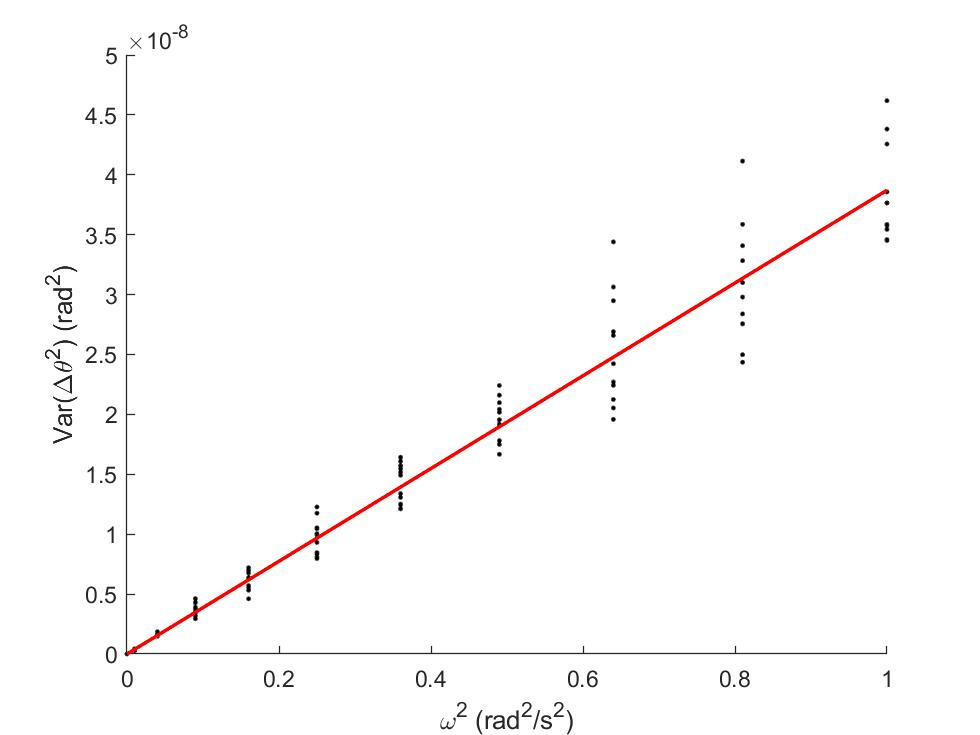
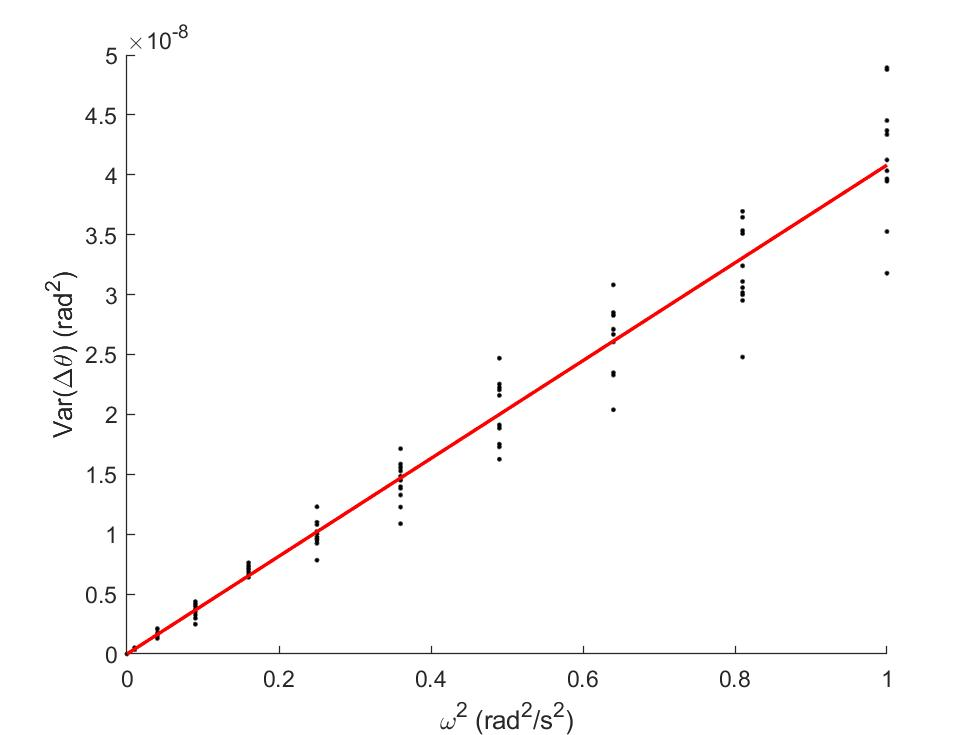
Cosas mías

diff --git a/02_Matlab/sensor_us.m b/02_Matlab/sensor_us.m
@@ -73,6 +73,11 @@ classdef sensor_us < sensor
             x_rel = obj.X_rel(1);
             y_rel = obj.X_rel(2);
             theta_rel = obj.X_rel(3);
+
+            theta = theta_abs - theta_rel;
+            dx_dtheta = -x_rel*sin(theta) - y_rel*cos(theta);
+            dy_dtheta = x_rel*cos(theta) - y_rel*sin(theta);
+
             
             delta = obj.angulo_cono;
             
@@ -92,12 +97,12 @@ classdef sensor_us < sensor
                         X_m = new_X_m;
                         
                         % Jacobiano
-                        dx = 0;
-                        dy = -1/sin(theta_abs + delta);
-                        dtheta = 1/sin(theta_abs + delta)^2*(-x_rel*sin(theta_rel + delta) + ...
+                        dz_dx = 0;
+                        dz_dy = -1/sin(theta_abs + delta);
+                        dz_dtheta = 1/sin(theta_abs + delta)^2*(-x_rel*sin(theta_rel + delta) + ...
                             y_rel*cos(theta_rel + delta) + (y_abs - X_m(2))*cos(theta_abs + delta));
                         
-                        H = [dx dy dtheta];
+                        H = [dz_dx dz_dy dz_dtheta];
                     end
                     
                     % ángulo extremo del cono 2
@@ -107,12 +112,12 @@ classdef sensor_us < sensor
                         X_m = new_X_m;
                         
                         % Jacobiano
-                        dx = 0;
-                        dy = -1/sin(theta_abs - delta);
-                        dtheta = 1/sin(theta_abs - delta)^2*(-x_rel*sin(theta_rel - delta) + ...
+                        dz_dx = 0;
+                        dz_dy = -1/sin(theta_abs - delta);
+                        dz_dtheta = 1/sin(theta_abs - delta)^2*(-x_rel*sin(theta_rel - delta) + ...
                             y_rel*cos(theta_rel - delta) + (y_abs - X_m(2))*cos(theta_abs - delta));
                         
-                        H = [dx dy dtheta];
+                        H = [dz_dx dz_dy dz_dtheta];
                     end
                     
                     % perpendicular 1
@@ -123,10 +128,10 @@ classdef sensor_us < sensor
                             X_m = new_X_m;
                             
                             % Jacobiano
-                            dx = 0;
-                            dy = -1;
-                            dtheta = -(x_rel*sin(theta_abs) + y_rel*cos(theta_abs));
-                            H = [dx dy dtheta];
+                            dz_dx = 0;
+                            dz_dy = -1;
+                            dz_dtheta = -(x_rel*sin(theta_abs) + y_rel*cos(theta_abs));
+                            H = [dz_dx dz_dy dz_dtheta];
                         end
                     end
                     
@@ -138,10 +143,10 @@ classdef sensor_us < sensor
                             X_m = new_X_m;
 
                             % Jacobiano
-                            dx = 0;
-                            dy = 1;
-                            dtheta = (x_rel*sin(theta_abs) + y_rel*cos(theta_abs));
-                            H = [dx dy dtheta];                            
+                            dz_dx = 0;
+                            dz_dy = 1;
+                            dz_dtheta = (x_rel*sin(theta_abs) + y_rel*cos(theta_abs));
+                            H = [dz_dx dz_dy dz_dtheta];                            
                         end
                     end
                 
@@ -154,12 +159,12 @@ classdef sensor_us < sensor
                         X_m = new_X_m;
                         
                         % Jacobiano
-                        dx = -1/cos(theta_abs + delta);
-                        dy = 0;
-                        dtheta = 1/cos(theta_abs + delta)^2*(-x_rel*sin(theta_rel + delta) + ...
+                        dz_dx = -1/cos(theta_abs + delta);
+                        dz_dy = 0;
+                        dz_dtheta = 1/cos(theta_abs + delta)^2*(-x_rel*sin(theta_rel + delta) + ...
                             y_rel*cos(theta_rel + delta) - (x_abs - X_m(1))*sin(theta_abs + delta));
                         
-                        H = [dx dy dtheta];
+                        H = [dz_dx dz_dy dz_dtheta];
                     end
                     
                     % ángulo extremo del cono 2
@@ -169,12 +174,12 @@ classdef sensor_us < sensor
                         X_m = new_X_m;
                         
                         % Jacobiano
-                        dx = -1/cos(theta_abs - delta);
-                        dy = 0;
-                        dtheta = 1/cos(theta_abs - delta)^2*(-x_rel*sin(theta_rel - delta) + ...
+                        dz_dx = -1/cos(theta_abs - delta);
+                        dz_dy = 0;
+                        dz_dtheta = 1/cos(theta_abs - delta)^2*(-x_rel*sin(theta_rel - delta) + ...
                             y_rel*cos(theta_rel - delta) - (x_abs - X_m(1))*sin(theta_abs - delta));
                         
-                        H = [dx dy dtheta];
+                        H = [dz_dx dz_dy dz_dtheta];
                     end
                     
                     % perpendicular 1
@@ -185,10 +190,10 @@ classdef sensor_us < sensor
                             X_m = new_X_m;
                             
                             % Jacobiano
-                            dx = -1;
-                            dy = 0;
-                            dtheta = -(x_rel*cos(theta_abs) - y_rel*sin(theta_abs));
-                            H = [dx dy dtheta];
+                            dz_dx = -1;
+                            dz_dy = 0;
+                            dz_dtheta = -(x_rel*cos(theta_abs) - y_rel*sin(theta_abs));
+                            H = [dz_dx dz_dy dz_dtheta];
                         end
                     end
                     
@@ -200,10 +205,10 @@ classdef sensor_us < sensor
                             X_m = new_X_m;
                             
                             % Jacobiano
-                            dx = 1;
-                            dy = 0;
-                            dtheta = (x_rel*cos(theta_abs) - y_rel*sin(theta_abs));
-                            H = [dx dy dtheta];
+                            dz_dx = 1;
+                            dz_dy = 0;
+                            dz_dtheta = (x_rel*cos(theta_abs) - y_rel*sin(theta_abs));
+                            H = [dz_dx dz_dy dz_dtheta];
                         end
                     end
                 end
@@ -217,13 +222,12 @@ classdef sensor_us < sensor
                     if new_z < z
                         z = new_z;
                         X_m = [x_p y_p];
-                        
+
                         % Jacobiano
-                        dx = (x_abs - x_p)/z;
-                        dy = (y_abs - y_p)/z;
-                        dtheta = 1/z*((x_abs - x_p)*(-x_rel*sin(theta_abs) - y_rel*cos(theta_abs)) + ...
-                            (y_abs - y_p)*(x_rel*cos(theta_abs) - y_rel*sin(theta_abs)));
-                        H = [dx dy dtheta];
+                        dz_dx = (x_abs - x_p)/z;
+                        dz_dy = (y_abs - y_p)/z;
+                        dz_dtheta = dz_dx*dx_dtheta + dz_dy*dy_dtheta;
+                        H = [dz_dx dz_dy dz_dtheta];
 
                     end
                 end
@@ -239,11 +243,10 @@ classdef sensor_us < sensor
                         X_m = [x_p y_p];
                         
                         % Jacobiano
-                        dx = (x_abs - x_p)/z;
-                        dy = (y_abs - y_p)/z;
-                        dtheta = 1/z*((x_abs - x_p)*(-x_rel*sin(theta_abs) - y_rel*cos(theta_abs)) + ...
-                            (y_abs - y_p)*(x_rel*cos(theta_abs) - y_rel*sin(theta_abs)));
-                        H = [dx dy dtheta];
+                        dz_dx = (x_abs - x_p)/z;
+                        dz_dy = (y_abs - y_p)/z;
+                        dz_dtheta = dz_dx*dx_dtheta + dz_dy*dy_dtheta;
+                        H = [dz_dx dz_dy dz_dtheta];
 
                     end
                 end

diff --git a/02_Matlab/ver_entorno_y_medidas.m b/02_Matlab/ver_entorno_y_medidas.m
@@ -1,10 +1,70 @@
 %% patata
-figure(108);
-plot_entorno(entorno);
-plot_robot(robot);
+load construccion_entorno_robot en bot
 
+en = en.add_pared([6 1.5], [8 1.5])
+en = en.add_pared([6 1.5], [6 0])
+bot = bot.actualizar_posicion([3.5, 2, 4.5*pi/11-.3])
+
+[z, H, X_m] = estimar_medidas(bot, en)
+
+% X = bot.sensores(6).X_abs;
+% x1 = X(1) + 20*cos(X(3) + pi/2 - 0.1);
+% y1 = X(2) + 20*sin(X(3) + pi/2 - 0.1);
+% x2 = X(1) + 20*cos(X(3) - pi/2 + 0.1);
+% y2 = X(2) + 20*sin(X(3) - pi/2 + 0.1);
+
+figure;
+plot_robot(bot);
 hold on
-plot(X_m(1:length(Z1_k), 1), X_m(1:length(Z1_k), 2), 'xm', 'MarkerSize', 20);
+plot_entorno(en);
+hold on
+plot(X_m(1:5,1), X_m(1:5,2), '.', 'Color', '#800080', 'MarkerSize', 20)
+xlim([-1,8])
+ylim([-1,8])
 
-xlim([-2 22]);
-ylim([-2 22]);
+pbaspect([1 1 1])
+set(gca,'XColor', 'none','YColor','none')
+
+% set(gca,'visible','off')
+% plot(X(1), X(2), 'pb', 'MarkerSize', 20, 'MarkerFaceColor', '#ffa500')
+% plot([x1 X(1) x2], [y1 X(2) y2], '--b')
+
+%%
+% x0 = 0;
+% y0 = 0;
+% 
+% x0inf = 100;
+% y0inf = 0;
+% 
+% x1 = 10 * cos(pi/7);
+% y1 = 10 * sin(pi/7);
+% 
+% x1inf = 100 * cos(pi/7);
+% y1inf = 100 * sin(pi/7);
+% 
+% x2 = x1 - 5 * sin(pi/7);
+% y2 = y1 + 5 * cos(pi/7);
+% 
+% x2inf = x2 + x1inf;
+% y2inf = y2 + y1inf;
+% 
+% x3inf = x2 + 100 * cos(pi/2.1);
+% y3inf = y2 + 100 * sin(pi/2.1);
+% 
+% figure;
+% hold on
+% plot(x0, y0, 'hk', 'MarkerSize', 20, 'LineWidth', 1.5)
+% plot([x0 x0inf], [y0 y0inf], '--', 'LineWidth', 1.2, 'Color', '#00008B')
+% plot([x0 x1 x2], [y0, y1, y2], 'b-', 'LineWidth', 1.5)
+% plot(x2, y2, '*r', 'MarkerSize', 20, 'LineWidth', 1.5)
+% plot([x1 x1inf], [y1 y1inf], 'k--', 'LineWidth', 1.2)
+% plot([x2 x2inf], [y2 y2inf], 'k--', 'LineWidth', 1.2)
+% plot([x2 x3inf], [y2 y3inf], '--', 'LineWidth', 1.2, 'Color', '#8B0000')
+% xlim([0,20])
+% ylim([0,20])
+% pbaspect([1 1 1])
+% grid on
+% set(gca,'XColor', 'none','YColor','none')
+
+
+

diff --git a/02_Matlab/Calibracion_odometria.m b/02_Matlab/Calibracion_odometria.m
@@ -5,6 +5,7 @@
 % Pablo García Peris, Guillermo Illana Gisbert y Alberto López Rodríguez
 clear
 close all
+format shortG
 
 global time_unit robot_name
 
@@ -19,6 +20,7 @@ w = 0:0.1:1; % vel. angular
 N = length(v) * length(w);
 
 var_odometria = zeros(N, 3);
+cov_odometria = zeros(N, 1);
 variables = zeros(N, 3);
 
 idx = 1;
@@ -87,9 +89,10 @@ for i = 1:length(v)
 % 
 %             text(-0.15, 0.85, 'c)', 'Units', 'normalized')
 %         end
-        corrcoef(odometria)
         
         var_odometria(idx, :) = var(odometria);
+        c = cov(odometria(:,1), odometria(:,2));
+        cov_odometria(idx) = c(1,2);
         variables(idx, :, :) = [v(i)      v(i)*sqrt(w(j)) w(j)].^2;
         idx = idx + 1;
     end
@@ -104,11 +107,12 @@ Q_pu = zeros(3, 3); % matriz Q, pero por unidad de la velocidad correspondiente
 for i = 1:3
     Q_pu(i, i) = variables(:, i)\var_odometria(:, i);
 end
-
+Q_pu(1,2) = sqrt(Q_pu(1,1)*Q_pu(2,2));
+Q_pu(2,1) = Q_pu(1,2)
 
 %% Dibujos
-texto_variables = ["v^2 (m^2/s^2)", "v^2·\omega^2 (m^2·rad/s^4)", "\omega^2 (rad^2/s^2)"];
-texto_odometria = ["Var(\Delta)x (m^2)", "Var(\Delta)y (m^2)", "Var(\Delta\theta^2) (rad^2)"];
+texto_variables = ["v^2 (m^2/s^2)", "v^2·\omega^2 (m^2·rad^2/s^4)", "\omega^2 (rad^2/s^2)"];
+texto_odometria = ["Var(\Delta x) (m^2)", "Var(\Delta y) (m^2)", "Var(\Delta\theta) (rad^2)"];
 
 for i = 1:3
     figure(i);
@@ -120,6 +124,13 @@ for i = 1:3
     ylabel(texto_odometria(i));
 end
 
+figure(4);
+hold on
+plot(sqrt(variables(:, 1).*variables(:, 2)), cov_odometria(:), '.k', 'LineWidth', 1.5);
+plot([0 1], [0 Q_pu(1, 2)], '-r', 'LineWidth', 1.5);
+xlabel(num2str(i) + " - " + num2str(j))
+xlabel("v^2·|\omega| (m^2·rad/s^3)");
+ylabel("Cov(\Delta x, \Delta y) (m^2)");
 save calibracion_odometria Q_pu
 
 

diff --git a/02_Matlab/Calibracion_sensores.m b/02_Matlab/Calibracion_sensores.m
@@ -17,46 +17,46 @@ apoloUpdate();
 
 %% Ultrasonidos (sin moverse)
 medidas_us = zeros(N_medidas, N_sensores_us);
-medidas_ls = zeros(N_medidas, 2); %solo se miden las distancias y ángulo del sensor nº 1
+medidas_ls = zeros(N_medidas, 1); %solo se mide el ángulo del sensor nº 1
 
 for i = 1:N_medidas
     medidas_next_us = GetUltrasonicSensorsWithNoise(robot_name);
     medidas_next_ls = GetLaserData(laser_name, nbalizas);
 
     medidas_us(i, :) = medidas_next_us;
-    medidas_ls(i, :) = medidas_next_ls(1:2)';
+    medidas_ls(i, :) = medidas_next_ls(1);
 
 end
 
 var_med_us = var(medidas_us);
 
 %if isa(robot.sensores(end),'sensor_ls')
-var_med_ls = var(medidas_ls);
+var_med_ls = var(medidas_ls)
 
 
-R = diag([var_med_us repmat(var_med_ls(1), 1, nbalizas)])
+R = diag([var_med_us repmat(var_med_ls, 1, nbalizas)]);
 
 
 %% Dibujos
-for i = 1:N_sensores_us
-    figure;
-    hold on
-    plot(1:N_medidas, medidas_us(:, i));
-    xlabel('z (m)');
-    ylabel('medida')
-    title("ultrasonidos #" + num2str(i));
-end
-
-figure;
-plot(1:N_medidas, medidas_ls(:, 1));
-xlabel('z (rad)');
-ylabel('medida')
-title('ángulo con baliza con láser');
-
+% for i = 1:N_sensores_us
+%     figure;
+%     hold on
+%     plot(1:N_medidas, medidas_us(:, i));
+%     xlabel('z (m)');
+%     ylabel('medida')
+%     title("ultrasonidos #" + num2str(i));
+% end
+% 
 % figure;
-% plot(1:N_medidas, medidas_ls(:, 2));
-% xlabel('z (m)');
+% plot(1:N_medidas, medidas_ls(:, 1));
+% xlabel('z (rad)');
 % ylabel('medida')
-% title('distancia a baliza con láser');
+% title('ángulo con baliza con láser');
+% 
+% % figure;
+% % plot(1:N_medidas, medidas_ls(:, 2));
+% % xlabel('z (m)');
+% % ylabel('medida')
+% % title('distancia a baliza con láser');
 
 save calibracion_sensores R

diff --git a/02_Matlab/GetPositionFromOdometry.m b/02_Matlab/GetPositionFromOdometry.m
@@ -1,4 +1,4 @@
-function [X_k1_k, P_k1_k] = GetPositionFromOdometry(X_k_k, P_k_k,  de lQ)
+function [X_k1_k, P_k1_k] = GetPositionFromOdometry(X_k_k, P_k_k, Q)
 %[X(k+1|k), P(k+1|k)] = GETPOSITIONFROMODOMETRY(X(k|k), P(k|k), Q(k))
 % Calcula la nueva posición del robot a partir de la odometría y los
 % valores anteriores, así como la matriz de varianzas P asociada.

diff --git a/02_Matlab/Matriz_Q.m b/02_Matlab/Matriz_Q.m
@@ -7,7 +7,8 @@ v = velocidad(1);
 w = velocidad(2);
 
 variables = diag([v; v*w; w].^2); % variables para calcular Q
-
+variables(1,2) = v^2*abs(w);
+variables(2,1) = v^2*abs(w);
 Q = Q_pu .* variables;
 
 end
